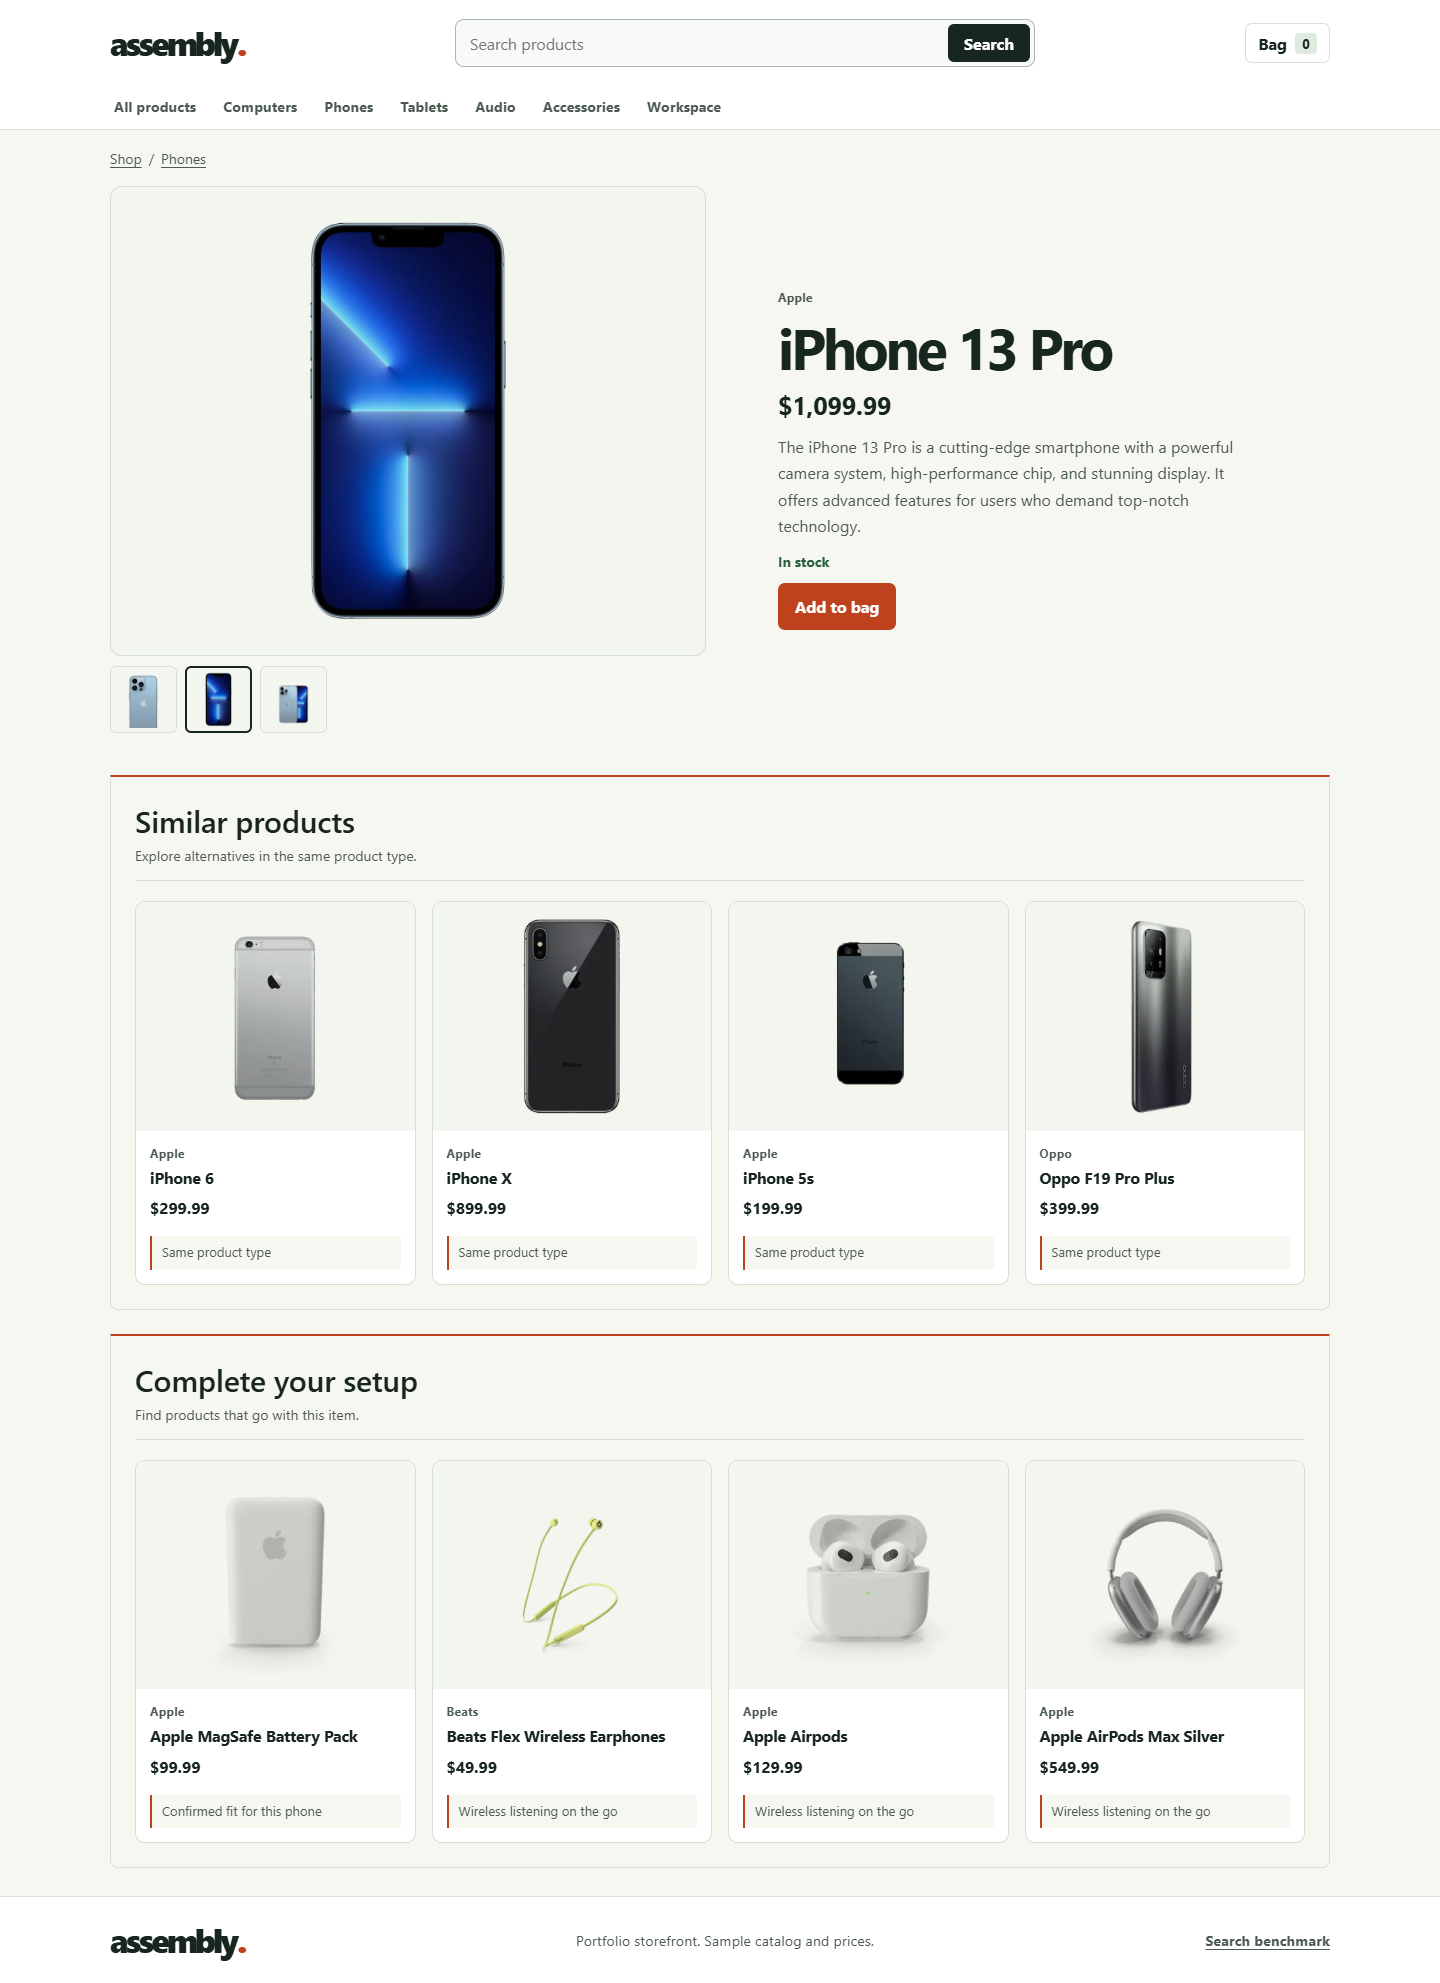
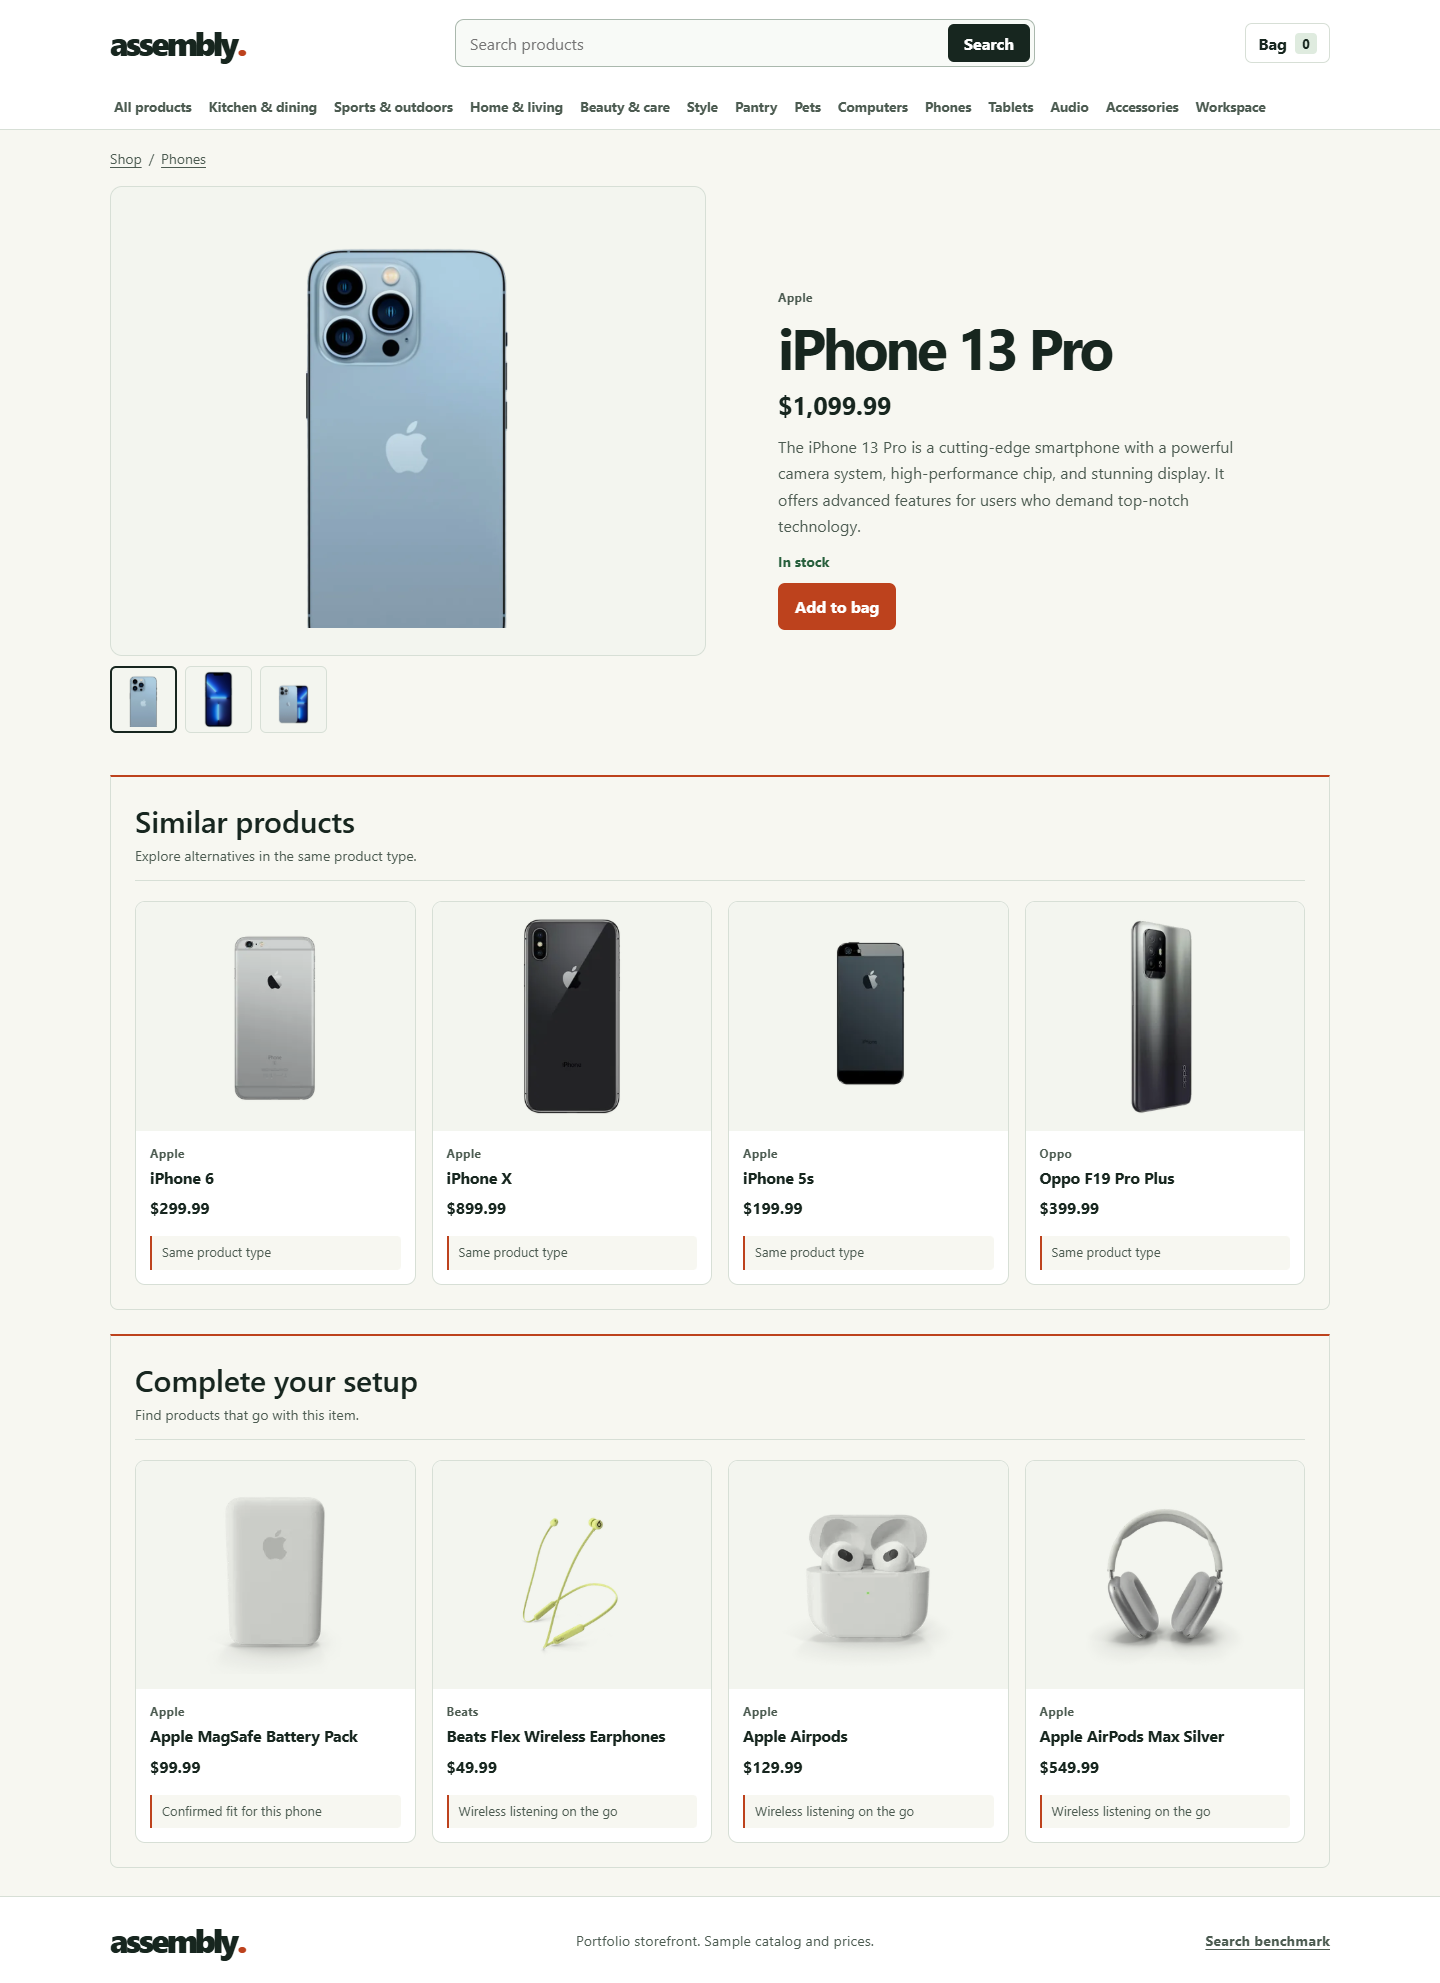
Prepare GitHub README and storefront screenshots

diff --git a/README.md b/README.md
@@ -1,85 +1,42 @@
-# Product Search Reranker
+# Product Search Reranker · Assembly
 
-A shopping query can match a requested product, a compatible substitute, or an accessory. They may use the same words. This project tests whether a small learning-to-rank model can put the requested product higher than a keyword baseline.
+Assembly is a storefront demo with **149 products across 13 departments**. It shows how hybrid search, supervised reranking, and product recommendations work together.
 
-It trains a CPU LightGBM LambdaRank model on [Amazon ESCI](https://github.com/amazon-science/esci-data), evaluates both rankers on the same held-out candidate lists, and serves the trained model through a web interface.
+![Assembly storefront homepage](docs/storefront-v3-home.png)
 
-## Assembly storefront · V3
+[Homepage after a search](docs/storefront-v3-context.png) · [Product recommendations](docs/storefront-product.png) · [Mobile view](docs/storefront-v3-mobile.png)
 
-The storefront has 149 products across 13 departments. The homepage follows the latest search, chooses a relevant department and reranks eligible suggestions with the trained ESCI model. The catalog and trained product-detail recommenders share the same Qdrant index. [V3 design and audit](docs/storefront-v3.md)
+## What the models do
 
-![Assembly home recommendations after a tennis search](docs/storefront-v3-context.png)
+- **Find candidates.** Qdrant combines BM25 keyword matches with Granite embeddings, which represent the meaning of the product text.
+- **Reorder matches.** LightGBM LambdaRank, trained on Amazon ESCI, reorders eligible products. The homepage preserves strong evidence for explicit attributes such as color.
+- **Suggest products.** The homepage uses the latest search or last-viewed product. Two trained pair models rank alternatives and compatible add-ons on product pages. **Clear activity** resets the homepage context.
 
-## Storefront setup
+## Run locally
 
-Browse a sample store and open product pages for same-type alternatives and compatible add-ons. Store search combines text and vector retrieval, and the product recommendations use two supervised item-to-item rankers.
+Requires **Python 3.11+** in a virtual environment (`venv`). The first run downloads the encoder.
 
-```sh
+```bash
 python -m pip install -e ".[store]"
 python -m product_reranker serve-store
 ```
 
-Open [the storefront](http://127.0.0.1:8000/store/). The [V2 notes](docs/storefront.md) cover the original catalog experiment and item-to-item model training.
+Open the [local storefront](http://127.0.0.1:8000/store/).
 
-## Run the V1 demo
+Search `tennis practice gear`, then click the **Assembly** logo to return home and see the contextual recommendations.
 
-![BM25 and LambdaRank results for the same Fitbit query](docs/demo-preview.png)
+## Evaluation
 
-Use Python 3.11+ from the repository root. Create a virtual environment and activate it before installing.
+The ESCI benchmark uses held-out search queries. The homepage figures come from a small, manually reviewed set on the demo catalog.
 
-```sh
-python -m venv .venv
-# Windows PowerShell: .\.venv\Scripts\Activate.ps1
-# macOS / Linux: source .venv/bin/activate
-python -m pip install -e .
-python -m product_reranker serve
-```
+| Evaluation | Scope | Metric | Result | Artifact |
+| --- | --- | --- | --- | --- |
+| **Core ESCI reranker** | 8,956 Amazon ESCI queries (offline benchmark) | nDCG@10 | `0.6834` → `0.7132` | [Benchmark and reproduction](docs/search-benchmark.md) |
+| **Homepage contextual** | 22 reviewed matching searches (demo catalog) | nDCG@4 | `0.9332` → `0.9439` | [Homepage audit](docs/storefront-v3-audit.json) |
+| **Homepage abstention** | Reviewed unmatched/ambiguous queries (demo catalog) | Abstentions | `8/8` | [Homepage audit](docs/storefront-v3-audit.json) |
 
-Open [localhost:8000](http://127.0.0.1:8000). Compare the first ten results for selected held-out queries or enter a query and 2–40 product titles under **Try the model**. The demo loads the trained model and BM25 statistics from `models/` at startup. The [local API reference](http://127.0.0.1:8000/api/docs) also accepts descriptions, brands, colors, and bullet points.
+[Storefront design and evaluation](docs/storefront-v3.md)
 
-The files in `docs/` can be published directly with GitHub Pages. This static version displays the benchmark replay. To host live inference, run the Python server with `--host 0.0.0.0` and the port provided by your host.
+## Data sources
 
-## Held-out results
-
-| Query slice | Queries | BM25 nDCG@10 | LambdaRank nDCG@10 | Change |
-| --- | ---: | ---: | ---: | ---: |
-| All | 8,956 | 0.6834 | 0.7132 | +0.0298 |
-| Short, 1–2 tokens | 1,712 | 0.6851 | 0.7207 | +0.0355 |
-| Query matches a candidate title | 156 | 0.7863 | 0.8072 | +0.0209 |
-
-The 95% interval for the overall change is **+0.0269 to +0.0328**. The reranker improved 4,790 queries, regressed on 3,397, and tied on 769. Five training query groups were removed because their normalized text appeared in test. Validation selected 71 boosting rounds.
-
-The demo includes examples selected for visible changes. For *fitbit charge 3*, BM25 put replacement bands first and LambdaRank promoted the trackers. For *apple watch band with case*, LambdaRank pushed judged exact matches down and put complements first. Accessories are a recurring ambiguity when the query contains words shared by a product and its add-ons.
-
-See the [benchmark report](docs/benchmark.json) for split counts, sample rankings, and runtime versions.
-
-## Reproduce the training run
-
-```sh
-python -m product_reranker download
-python -m product_reranker train
-python -m product_reranker serve --model-dir artifacts
-```
-
-The downloader uses the two Parquet files from Amazon's pinned revision and verifies their SHA-256 checksums. Allow about 1.16 GB for source files. Training writes a native LightGBM booster, the BM25 feature statistics, and a JSON benchmark report to `artifacts/`. Add `--smoke-queries 100 --output-dir artifacts/smoke` to the training command for a smaller run. The smoke run still reads the original catalog. Copy a fresh `artifacts/benchmark.json` to `docs/benchmark.json` to replay that run on the site.
-
-## Evaluation design
-
-- **Candidates.** Filter to US English rows in Amazon ESCI Task 1. Keep the candidate lists for each official query ID intact and join product fields by ID and locale.
-- **Split.** Hold out Amazon's official test split. Normalize queries with Unicode NFKC, case folding, and alphanumeric tokenization. Remove official training query IDs whose normalized text occurs in the test set, then reserve validation queries using a stable hash of normalized text.
-- **Baseline.** Score `2 × BM25(title) + BM25(description)` with separate field lengths and inverse document frequencies estimated on unique training products. Break score ties by product ID.
-- **Reranker.** Train LambdaRank on the two BM25 components and features for coverage, word order, phrase match, numeric tokens, brand, and color. The first eight title tokens, excluding brand and color words, provide a proxy for product type because ESCI has no category column. Select the number of boosting rounds on validation nDCG@10.
-- **Outcome.** Average nDCG@10 across test queries. The gain scale is 100 for an exact product, 10 for a substitute, 1 for a complement, and 0 for an irrelevant result. A list with zero ideal gain receives a score of zero. The paired 95% bootstrap interval resamples normalized query clusters.
-
-The benchmark evaluates reranking inside Amazon's existing candidate pools. Product IDs can occur in multiple splits, which reflects reranking against a shared catalog. In live mode the caller supplies the candidate pool. The learned features depend primarily on shared words or numbers, so the model can struggle with unfamiliar aliases and synonyms. The browser form only sends titles, while the benchmark uses the available catalog metadata.
-
-## Development
-
-```sh
-python -m pip install -e ".[dev,store]"
-python -m pytest -q
-python -m ruff check .
-python -m build
-```
-
-The [implementation plan](docs/implementation-plan.md) records the project scope. The [Shopping Queries Dataset paper](https://arxiv.org/abs/2206.06588) describes the collection and judgments. The bundled sample product titles and labels are derived from Amazon ESCI under its [license](docs/amazon-esci-license.txt) and [notice](docs/amazon-esci-notice.txt).
+The ranking models use [Amazon ESCI](https://github.com/amazon-science/esci-data). The demo catalog and photos come from [DummyJSON](https://dummyjson.com/docs/products). Prices and the shopping bag are for demonstration.

diff --git a/docs/search-benchmark.md b/docs/search-benchmark.md
@@ -1,0 +1,35 @@
+# Amazon ESCI search benchmark
+
+## Held-out results
+
+| Query slice | Queries | BM25 nDCG@10 | LambdaRank nDCG@10 | Change |
+| --- | ---: | ---: | ---: | ---: |
+| All | 8,956 | 0.6834 | 0.7132 | +0.0298 |
+| Short, 1–2 tokens | 1,712 | 0.6851 | 0.7207 | +0.0355 |
+| Query matches a candidate title | 156 | 0.7863 | 0.8072 | +0.0209 |
+
+The 95% interval for the overall change is **+0.0269 to +0.0328**. The reranker improved 4,790 queries, regressed on 3,397, and tied on 769. Five training query groups were removed because their normalized text appeared in test. Validation selected 71 boosting rounds.
+
+The demo includes examples selected for visible changes. For *fitbit charge 3*, BM25 put replacement bands first and LambdaRank promoted the trackers. For *apple watch band with case*, LambdaRank pushed judged exact matches down and put complements first. Accessories are a recurring ambiguity when the query contains words shared by a product and its add-ons.
+
+See the [benchmark report](benchmark.json) for split counts, sample rankings, and runtime versions.
+
+## Reproduce the training run
+
+```sh
+python -m product_reranker download
+python -m product_reranker train
+python -m product_reranker serve --model-dir artifacts
+```
+
+The downloader uses the two Parquet files from Amazon's pinned revision and verifies their SHA-256 checksums. Allow about 1.16 GB for source files. Training writes a native LightGBM booster, the BM25 feature statistics, and a JSON benchmark report to `artifacts/`. Add `--smoke-queries 100 --output-dir artifacts/smoke` to the training command for a smaller run. The smoke run still reads the original catalog. Copy a fresh `artifacts/benchmark.json` to `docs/benchmark.json` to replay that run on the site.
+
+## Evaluation design
+
+- **Candidates.** Filter to US English rows in Amazon ESCI Task 1. Keep the candidate lists for each official query ID intact and join product fields by ID and locale.
+- **Split.** Hold out Amazon's official test split. Normalize queries with Unicode NFKC, case folding, and alphanumeric tokenization. Remove official training query IDs whose normalized text occurs in the test set, then reserve validation queries using a stable hash of normalized text.
+- **Baseline.** Score `2 × BM25(title) + BM25(description)` with separate field lengths and inverse document frequencies estimated on unique training products. Break score ties by product ID.
+- **Reranker.** Train LambdaRank on the two BM25 components and features for coverage, word order, phrase match, numeric tokens, brand, and color. The first eight title tokens, excluding brand and color words, provide a proxy for product type because ESCI has no category column. Select the number of boosting rounds on validation nDCG@10.
+- **Outcome.** Average nDCG@10 across test queries. The gain scale is 100 for an exact product, 10 for a substitute, 1 for a complement, and 0 for an irrelevant result. A list with zero ideal gain receives a score of zero. The paired 95% bootstrap interval resamples normalized query clusters.
+
+The benchmark evaluates reranking inside Amazon's existing candidate pools. Product IDs can occur in multiple splits, which reflects reranking against a shared catalog. In live mode the caller supplies the candidate pool. The learned features depend primarily on shared words or numbers, so the model can struggle with unfamiliar aliases and synonyms. The browser form only sends titles, while the benchmark uses the available catalog metadata.
